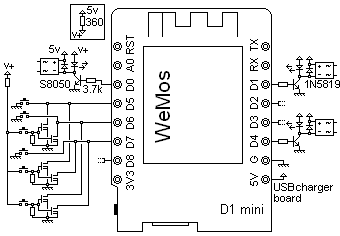
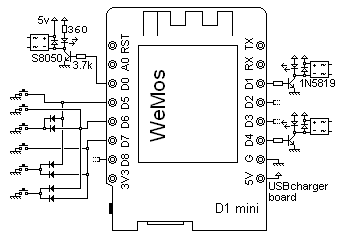
schemas...

Changed region(s): [[0.0, 0.0, 1.0, 1.0], [0.0, 0.2669, 0.0592, 0.3856]]

diff --git a/README.md b/README.md
@@ -14,9 +14,12 @@ Hardware:
 
 * Webmos D1 mini + wiring diagram of the interfaces:
  ![](doc/images/schema.png)
-* interface board:
- ![](doc/images/switchBoard.png)
 * stackable relay modules:
  ![](doc/images/module.png) ![](doc/images/modules.jpg)
 * WiFi Power Strip:
  ![](doc/images/powerStrip.jpg)
+* Progammable contactors:
+ ![](doc/images/programmableContactor.jpg)
+* interface board:
+ ![](doc/images/contactor.png)
+
